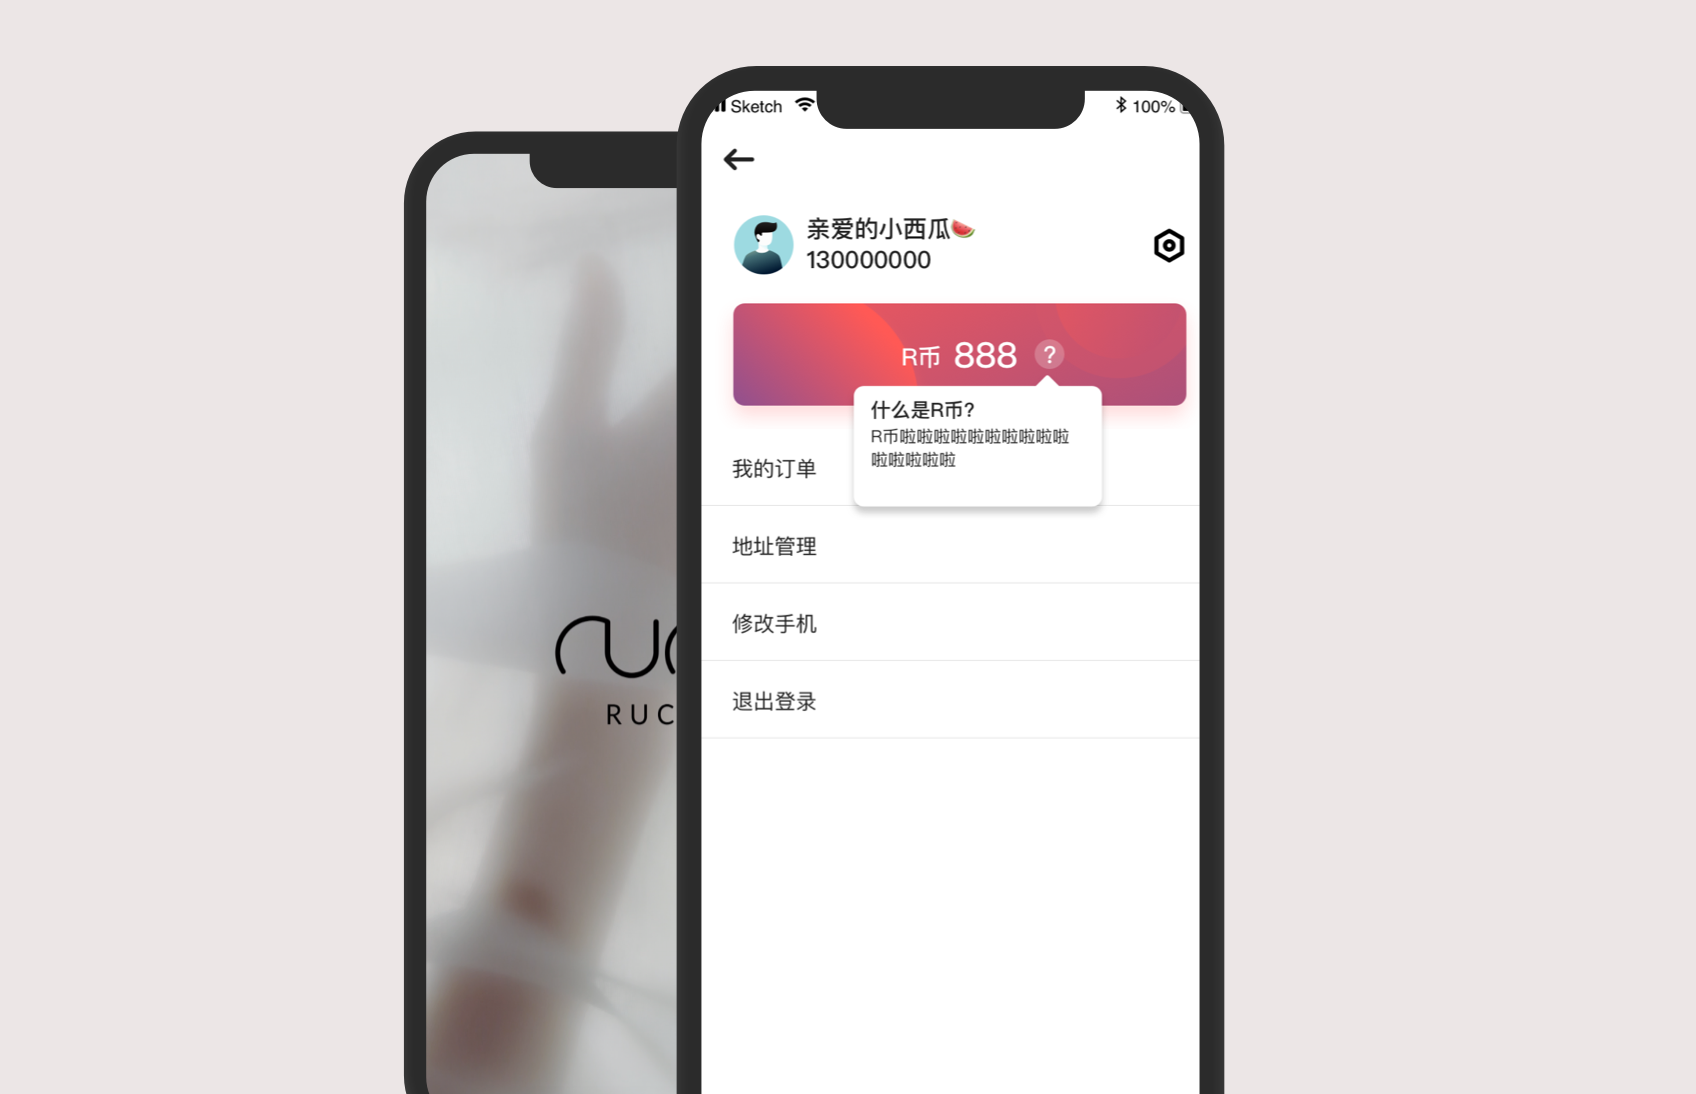
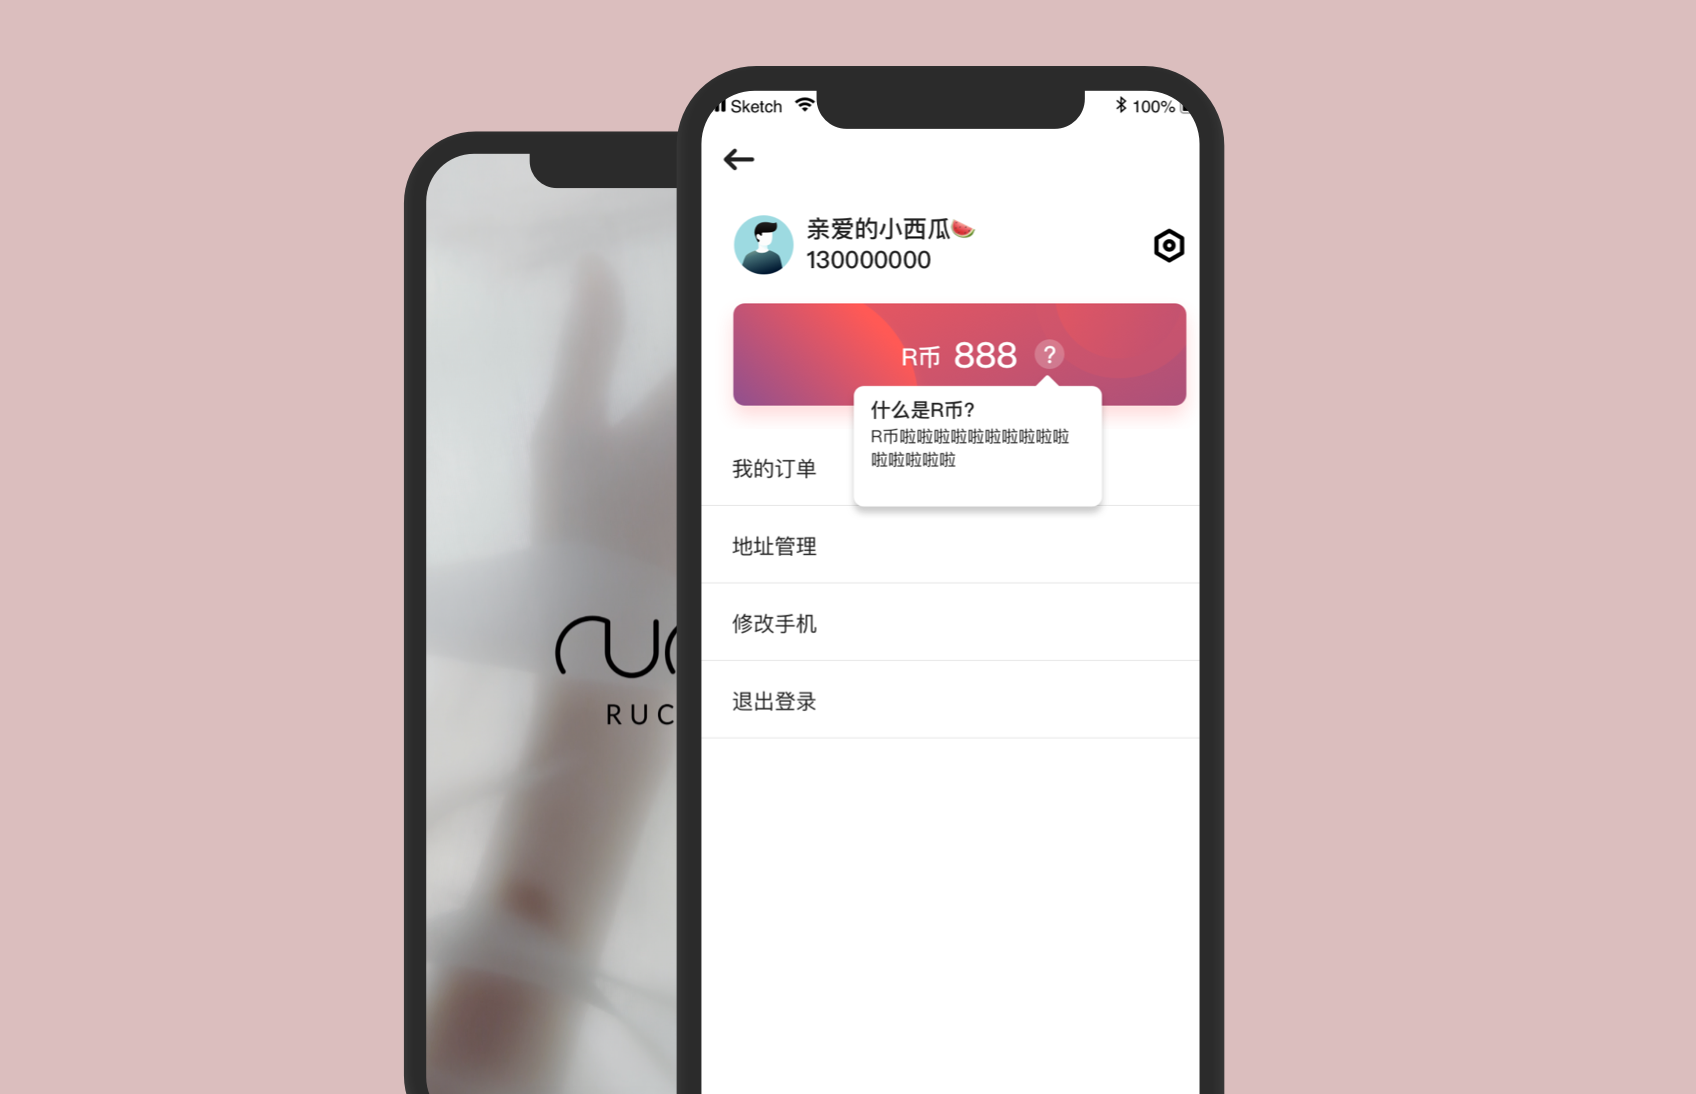
Site updated: 2019-10-19 17:21:34

diff --git a/index.html b/index.html
@@ -157,7 +157,7 @@
       
 
       <a href="/2019/10/14/test-img/">
-          <img src="https://sherryjjj.github.io/images/bg123.png" alt="RUCY Platform" class="attachment-post-thumbnail">
+          <img src="https://sherryjjj.github.io/images/rucy_1.png" alt="RUCY Platform" class="attachment-post-thumbnail">
         </a>
     
     <h1 class="entry-title">
